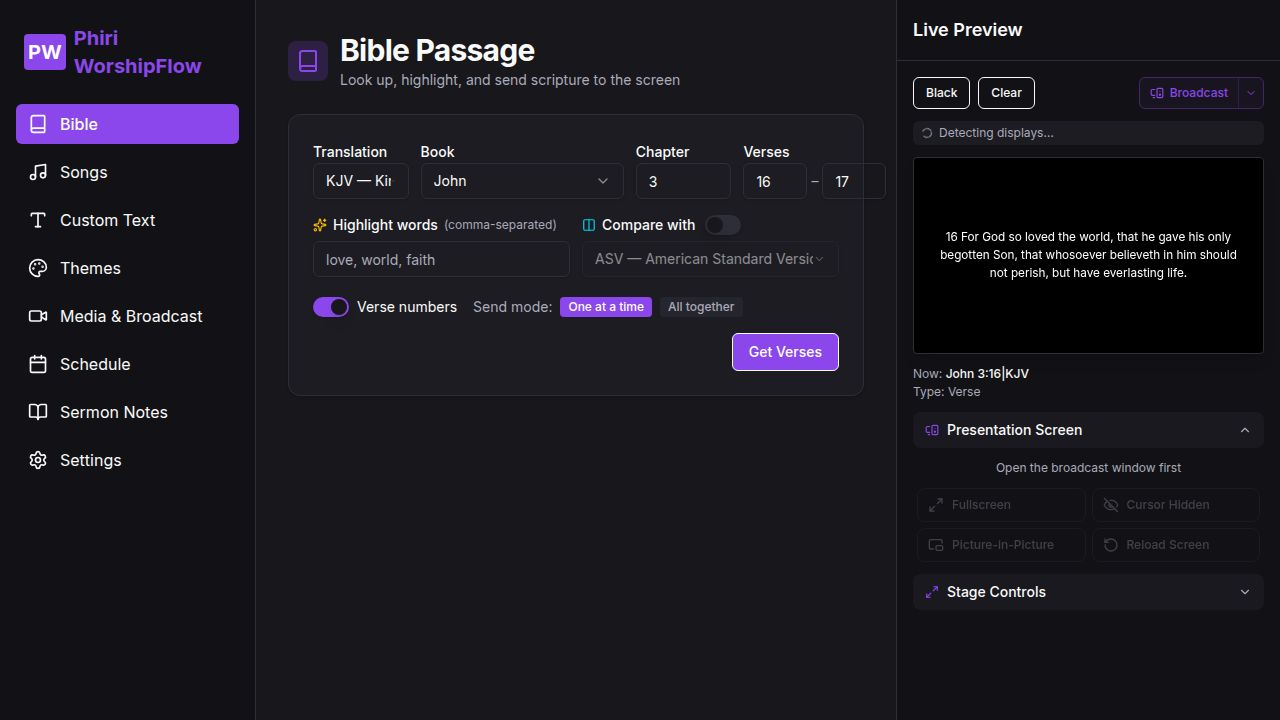
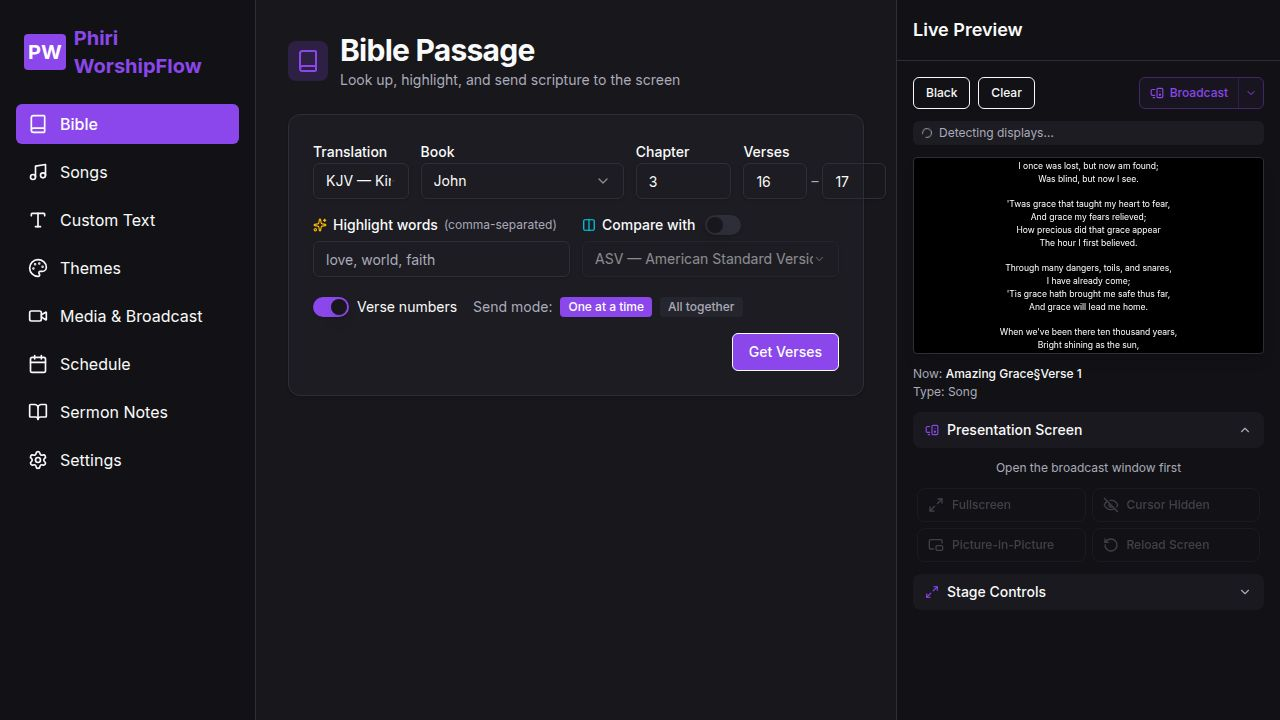
Improve fullscreen functionality and user experience
Fixes fullscreen toggle bugs by synchronizing state between control and broadcast windows, adding a user gesture requirement hint, and enabling keyboard shortcuts for fullscreen control.

Replit-Commit-Author: Agent
Replit-Commit-Session-Id: 596ccc0f-4522-4ff2-a4b1-2abd9db3a670
Replit-Commit-Checkpoint-Type: full_checkpoint
Replit-Commit-Event-Id: 28319667-7a89-4e41-8e04-0886f455b0de
Replit-Commit-Screenshot-Url: https://storage.googleapis.com/screenshot-production-us-central1/bea252b3-71d9-4e59-bc2b-c70a28f977e8/596ccc0f-4522-4ff2-a4b1-2abd9db3a670/Qm8Nbgb
Replit-Helium-Checkpoint-Created: true

Changed region(s): [[0.7188, 0.2139, 0.9688, 0.4278], [0.7188, 0.4583, 0.9062, 0.55]]

diff --git a/artifacts/worshipflow/src/pages/broadcast.tsx b/artifacts/worshipflow/src/pages/broadcast.tsx
@@ -666,13 +666,62 @@ export default function BroadcastPage() {
     // eslint-disable-next-line react-hooks/exhaustive-deps
   }, [toKey]);
 
-  // Apply URL params set by the launcher
+  // True fullscreen state (mirrors document.fullscreenElement). Used to render the CTA overlay.
+  const [isFullscreen, setIsFullscreen] = useState<boolean>(false);
+  // Set when a fullscreen request was made but the browser blocked it (no user gesture in this window).
+  const [fullscreenBlocked, setFullscreenBlocked] = useState<boolean>(false);
+  const ctrlChannelRef = useRef<BroadcastChannel | null>(null);
+
+  /** Try to enter fullscreen; on failure, post 'fullscreen_blocked' so controllers can hint the user. */
+  const tryEnterFullscreen = () => {
+    const p = document.documentElement.requestFullscreen?.();
+    if (!p) { ctrlChannelRef.current?.postMessage({ type: "fullscreen_blocked" }); setFullscreenBlocked(true); return; }
+    p.then(() => { setFullscreenBlocked(false); })
+     .catch(() => { ctrlChannelRef.current?.postMessage({ type: "fullscreen_blocked" }); setFullscreenBlocked(true); });
+  };
+
+  // Apply URL params set by the launcher (best-effort — auto-fullscreen will likely be blocked without user gesture)
   useEffect(() => {
     const params = new URLSearchParams(window.location.search);
-    if (params.get("fullscreen") === "1") {
-      document.documentElement.requestFullscreen?.().catch(() => {});
-    }
+    if (params.get("fullscreen") === "1") tryEnterFullscreen();
     if (params.get("hidecursor") === "1") setHideCursor(true);
+  }, []);
+
+  // Track real fullscreen state and broadcast it back to controllers
+  useEffect(() => {
+    const ch = new BroadcastChannel(CHANNEL_NAME);
+    ctrlChannelRef.current = ch;
+    const sync = () => {
+      const fs = !!document.fullscreenElement;
+      setIsFullscreen(fs);
+      if (fs) setFullscreenBlocked(false);
+      ch.postMessage({ type: "fullscreen_state", value: fs });
+    };
+    document.addEventListener("fullscreenchange", sync);
+    // Send initial state so controllers can hydrate
+    sync();
+    return () => { document.removeEventListener("fullscreenchange", sync); ch.close(); ctrlChannelRef.current = null; };
+  }, []);
+
+  // F key — quick toggle fullscreen (works because keyboard input is a user gesture)
+  useEffect(() => {
+    const onKey = (e: KeyboardEvent) => {
+      const t = e.target as HTMLElement | null;
+      const tag = t?.tagName;
+      const isEditable =
+        tag === "INPUT" || tag === "TEXTAREA" || tag === "SELECT" ||
+        t?.isContentEditable === true ||
+        t?.getAttribute?.("role") === "textbox";
+      if (isEditable) return;
+      if (e.metaKey || e.ctrlKey || e.altKey) return;
+      if (e.key === "f" || e.key === "F") {
+        e.preventDefault();
+        if (document.fullscreenElement) document.exitFullscreen?.().catch(() => {});
+        else tryEnterFullscreen();
+      }
+    };
+    window.addEventListener("keydown", onKey);
+    return () => window.removeEventListener("keydown", onKey);
   }, []);
 
   // Listen for remote commands from the control screen
@@ -683,14 +732,19 @@ export default function BroadcastPage() {
       if (!cmd?.type) return;
       switch (cmd.type) {
         case "fullscreen":
-          document.documentElement.requestFullscreen?.().catch(() => {});
+          tryEnterFullscreen();
           break;
         case "exit_fullscreen":
+          setFullscreenBlocked(false);
           if (document.fullscreenElement) document.exitFullscreen?.().catch(() => {});
           break;
         case "toggle_fullscreen":
           if (document.fullscreenElement) document.exitFullscreen?.().catch(() => {});
-          else document.documentElement.requestFullscreen?.().catch(() => {});
+          else tryEnterFullscreen();
+          break;
+        case "get_fullscreen_state":
+          // Late-mounting controllers ask for current state on subscribe — reply immediately.
+          ch.postMessage({ type: "fullscreen_state", value: !!document.fullscreenElement });
           break;
         case "hide_cursor":
           setHideCursor(true);
@@ -747,11 +801,11 @@ export default function BroadcastPage() {
     }
   }, [screenState?.background?.type]);
 
-  // Click anywhere to request fullscreen (user gesture)
+  // Click anywhere to request fullscreen (user gesture).
+  // Only auto-fullscreens when the controller explicitly requested it (fullscreenBlocked) so we don't
+  // hijack incidental clicks once the user has chosen to stay windowed.
   const handleClick = () => {
-    if (!document.fullscreenElement) {
-      document.documentElement.requestFullscreen?.().catch(() => {});
-    }
+    if (!document.fullscreenElement && fullscreenBlocked) tryEnterFullscreen();
   };
 
   const textStyle = screenState?.textStyle;
@@ -886,6 +940,26 @@ export default function BroadcastPage() {
 
       {/* Black screen overlay */}
       {screenState?.isBlack && <div className="absolute inset-0 bg-black z-40" />}
+
+      {/* Fullscreen CTA — shown when controller requested fullscreen but the browser blocked it (no user gesture in this window). */}
+      {fullscreenBlocked && !isFullscreen && (
+        <div
+          className="absolute top-4 left-1/2 -translate-x-1/2 z-50 bg-black/85 backdrop-blur-sm border border-white/20 rounded-lg px-4 py-2.5 text-white text-sm shadow-2xl flex items-center gap-3 animate-in fade-in slide-in-from-top-2"
+          data-testid="overlay-fullscreen-cta"
+        >
+          <span className="text-lg">⛶</span>
+          <span>Click anywhere or press <kbd className="px-1.5 py-0.5 bg-white/15 border border-white/30 rounded text-xs font-mono">F</kbd> to enter fullscreen</span>
+          <button
+            type="button"
+            onClick={(e) => { e.stopPropagation(); setFullscreenBlocked(false); }}
+            className="ml-2 text-white/60 hover:text-white text-xs"
+            data-testid="button-dismiss-fs-cta"
+            aria-label="Dismiss"
+          >
+            ✕
+          </button>
+        </div>
+      )}
 
       {/* Content */}
       {showContent && (() => {

diff --git a/artifacts/worshipflow/src/components/live-preview.tsx b/artifacts/worshipflow/src/components/live-preview.tsx
@@ -9,7 +9,7 @@ import {
   Maximize2, Minimize2, EyeOff, Eye, RotateCcw, CheckCircle2, Tv2, PictureInPicture2,
   MonitorOff
 } from "lucide-react";
-import { useBroadcast } from "@/hooks/use-broadcast";
+import { useBroadcast, CHANNEL_NAME } from "@/hooks/use-broadcast";
 import {
   DropdownMenu, DropdownMenuContent, DropdownMenuItem, DropdownMenuLabel,
   DropdownMenuSeparator, DropdownMenuTrigger,
@@ -47,6 +47,30 @@ export function LivePreview() {
     }
   // eslint-disable-next-line react-hooks/exhaustive-deps
   }, [isWindowManagementSupported]);
+
+  // Subscribe to broadcast-window status messages so our toggle reflects the real fullscreen state.
+  // Also send a one-shot 'get_fullscreen_state' query so we hydrate even if the broadcast was already
+  // open and fullscreen before this controller mounted (BroadcastChannel doesn't replay history).
+  useEffect(() => {
+    const ch = new BroadcastChannel(CHANNEL_NAME);
+    ch.onmessage = (e) => {
+      const m = e.data;
+      if (!m?.type) return;
+      if (m.type === "fullscreen_state") setIsFullscreen(!!m.value);
+      else if (m.type === "fullscreen_blocked") {
+        setIsFullscreen(false);
+        toast({
+          title: "Couldn't enter fullscreen automatically",
+          description: "The browser blocks fullscreen without a click in the broadcast window. Click on it, or press F.",
+          variant: "destructive",
+        });
+      }
+    };
+    // Ask for current state on mount (handles late-mounting / reload after broadcast is already fullscreen)
+    try { ch.postMessage({ type: "get_fullscreen_state" }); } catch {}
+    return () => ch.close();
+  // eslint-disable-next-line react-hooks/exhaustive-deps
+  }, []);
 
   if (isLoading) return <div className="animate-pulse h-48 bg-muted rounded-md" />;
   if (error) return <div className="text-destructive flex items-center gap-2"><AlertCircle className="w-4 h-4" /> Error loading preview</div>;
@@ -105,12 +129,20 @@ export function LivePreview() {
 
   // ── Remote control helpers ──
   const remoteFullscreen = () => {
+    // Bring the broadcast window to the front so the user can give it a gesture if needed.
+    try { broadcastWin?.focus(); } catch {}
     sendCommand({ type: "fullscreen" });
-    setIsFullscreen(true);
-    toast({ title: "Presentation → Fullscreen" });
+    // NOTE: do NOT optimistically set isFullscreen here — the broadcast window will report back via
+    // the 'fullscreen_state' status message once requestFullscreen() actually succeeds. If it was
+    // blocked (no user gesture), 'fullscreen_blocked' will fire instead.
+    toast({
+      title: "Sent to broadcast window",
+      description: "If it doesn't go fullscreen, click on the broadcast window or press F.",
+    });
   };
   const remoteExitFullscreen = () => {
     sendCommand({ type: "exit_fullscreen" });
+    // exitFullscreen doesn't need a gesture, so it always works — optimistic update is safe here.
     setIsFullscreen(false);
     toast({ title: "Presentation → Windowed" });
   };

diff --git a/artifacts/worshipflow/src/hooks/use-broadcast.ts b/artifacts/worshipflow/src/hooks/use-broadcast.ts
@@ -21,13 +21,21 @@ export interface BroadcastSettings {
 export type BroadcastCommand =
   | { type: "fullscreen" }
   | { type: "exit_fullscreen" }
+  | { type: "toggle_fullscreen" }
   | { type: "hide_cursor" }
   | { type: "show_cursor" }
+  | { type: "toggle_cursor" }
   | { type: "reload" }
   | { type: "pip_open" }
-  | { type: "pip_close" };
+  | { type: "pip_close" }
+  | { type: "get_fullscreen_state" };
 
-const CHANNEL_NAME = "wf-broadcast-cmd";
+/** Status events posted BY the broadcast window back to controllers. */
+export type BroadcastStatus =
+  | { type: "fullscreen_state"; value: boolean }
+  | { type: "fullscreen_blocked" };
+
+export const CHANNEL_NAME = "wf-broadcast-cmd";
 
 const DEFAULT_SETTINGS: BroadcastSettings = {
   autoFullscreen: true,